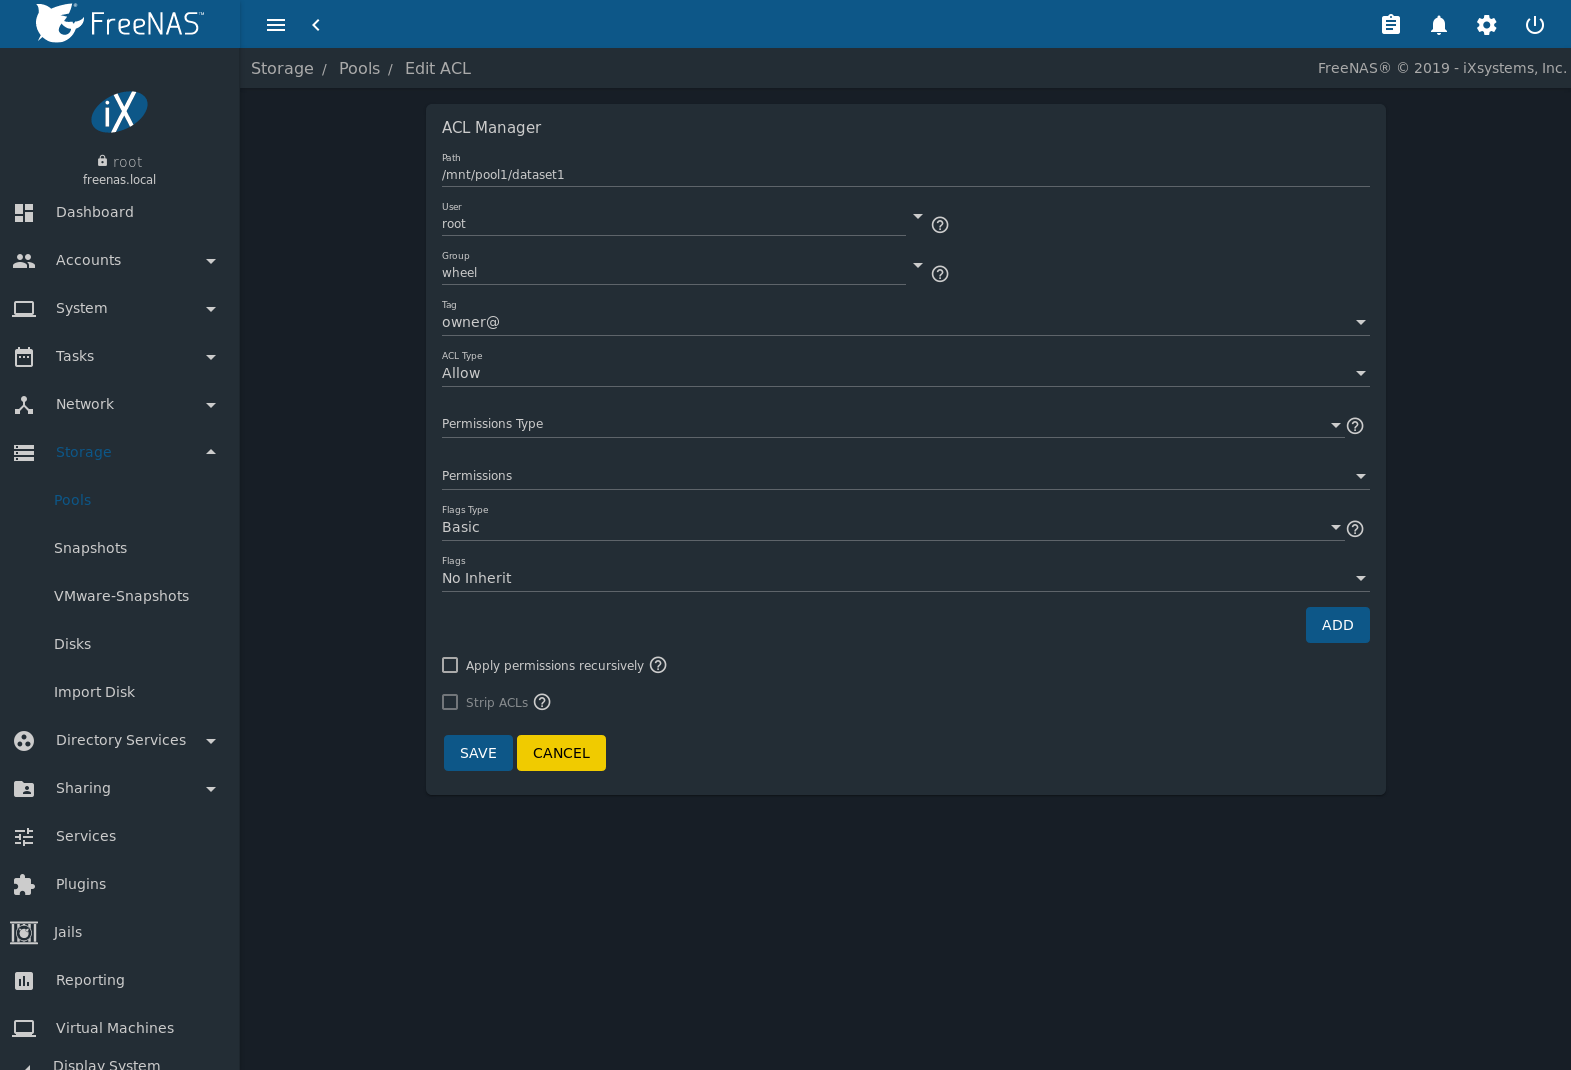
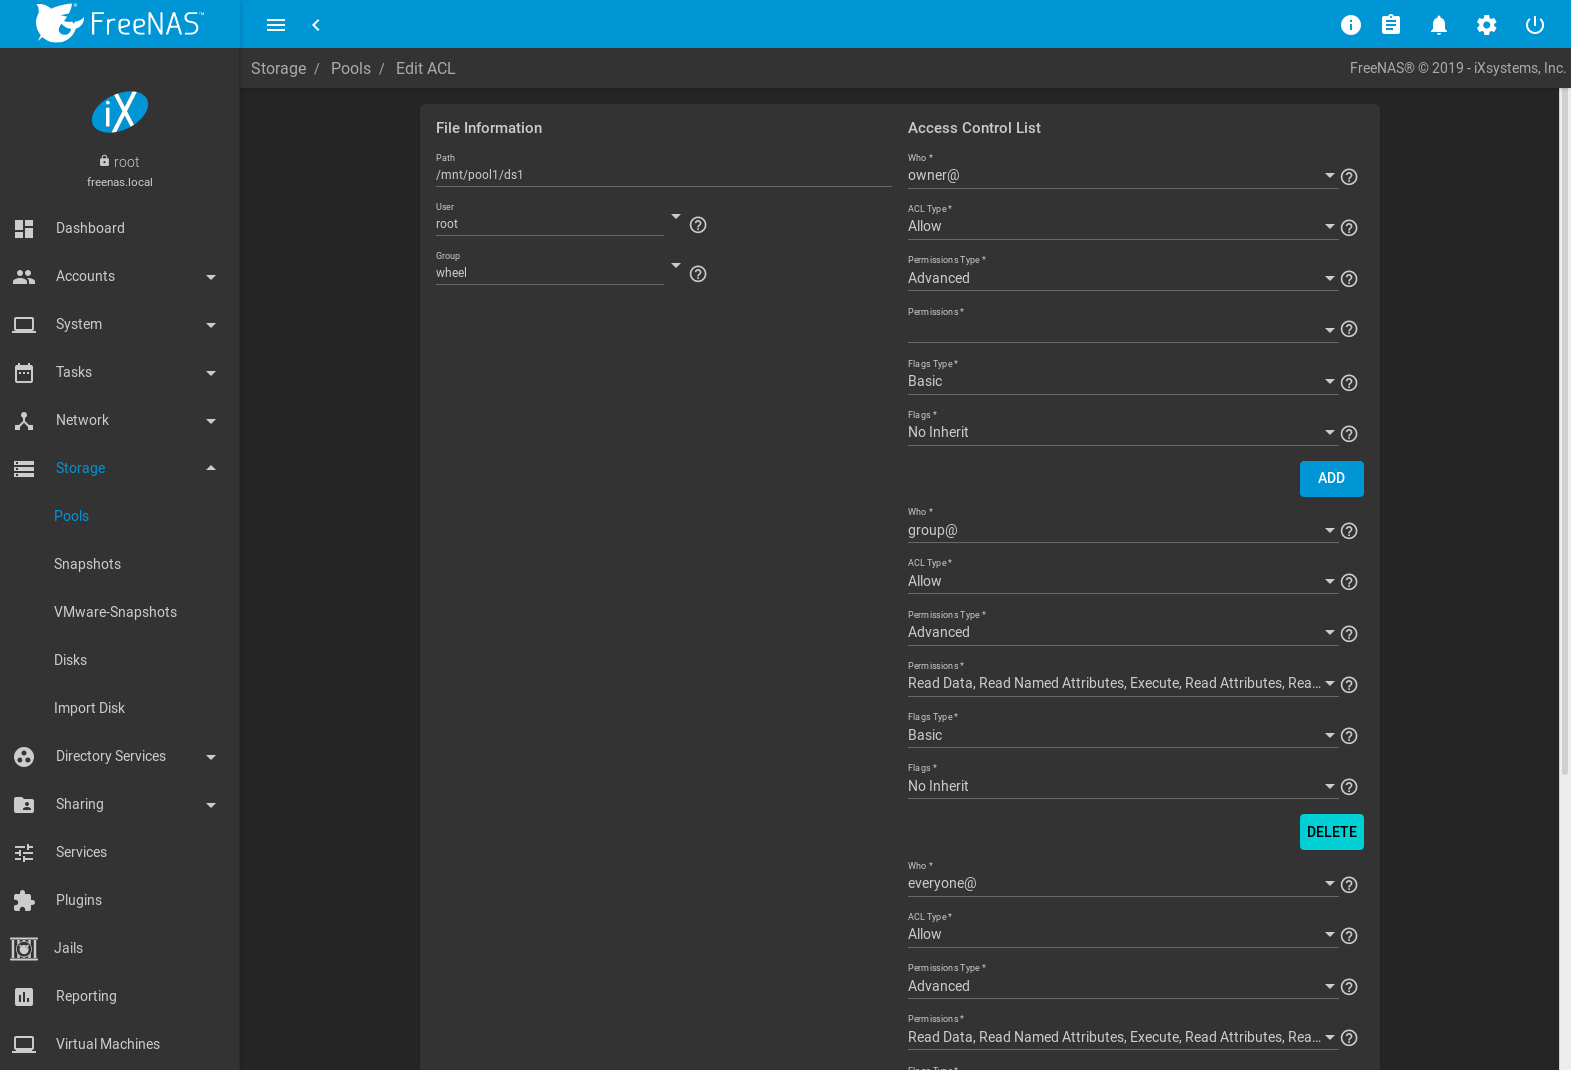
NAS-101749: Update ACL Manager section - Update text to reflect new organization and altered field - Update related image - HTML build test: no issues

diff --git a/userguide/storage.rst b/userguide/storage.rst
@@ -1359,7 +1359,13 @@ Find the desired dataset, click |ui-options|, and select
    ACL Manager
 
 
-.. tabularcolumns:: |>{\RaggedRight}p{\dimexpr 0.25\linewidth-2\tabcolsep}
+The ACL Manager options are split into the :guilabel:`File Information`,
+:guilabel:`Access Control List`, and :guilabel:`Advanced` sections.
+:numref:` Table %s <storage_acl_tab>` sorts these options by their
+section.
+
+.. tabularcolumns:: |>{\RaggedRight}p{\dimexpr 0.12\linewidth-2\tabcolsep}
+                    |>{\RaggedRight}p{\dimexpr 0.12\linewidth-2\tabcolsep}
                     |>{\RaggedRight}p{\dimexpr 0.12\linewidth-2\tabcolsep}
                     |>{\RaggedRight}p{\dimexpr 0.63\linewidth-2\tabcolsep}|
 
@@ -1369,60 +1375,60 @@ Find the desired dataset, click |ui-options|, and select
 .. table:: ACL Options
    :class: longtable
 
-   +-------------------+------------------+------------------------------------------------------------------------------------------------------------+
-   | Setting           | Value            | Description                                                                                                |
-   |                   |                  |                                                                                                            |
-   +===================+==================+============================================================================================================+
-   | Path              | string           | Location of the dataset that is being modified. Read-only.                                                 |
-   +-------------------+------------------+------------------------------------------------------------------------------------------------------------+
-   | User              | drop-down menu   | User who controls the dataset. This user always has permissions to read or write the ACL and read          |
-   |                   |                  | or write attributes. Users created manually or imported from a                                             |
-   |                   |                  | :ref:`directory service <Directory Services>` appear in the drop-down menu.                                |
-   +-------------------+------------------+------------------------------------------------------------------------------------------------------------+
-   | Group             | drop-down menu   | The group which controls the dataset. This group has all permissions that are granted to the *@group*      |
-   |                   |                  | :guilabel:`Tag`. Groups created manually or imported from a                                                |
-   |                   |                  | :ref:`directory service <Directory Services>` appear in the drop-down menu.                                |
-   +-------------------+------------------+------------------------------------------------------------------------------------------------------------+
-   | Tag               | drop-down menu   | Access Control Entry (ACE) user or group. Select a specific *User* or *Group* for this entry,              |
-   |                   |                  | *owner@* to apply this entry to the selected :guilabel:`User`, *group@* to apply this entry to the         |
-   |                   |                  | selected :guilabel:`Group`, or *everyone@* to apply this entry to all users and groups. See                |
-   |                   |                  | `setfacl(1) NFSv4 ACL ENTRIES <https://www.freebsd.org/cgi/man.cgi?query=setfacl>`__.                      |
-   +-------------------+------------------+------------------------------------------------------------------------------------------------------------+
-   | User              | drop-down menu   | User account to which this ACL entry applies. Only visible when *User* is the chosen :guilabel:`Tag`.      |
-   +-------------------+------------------+------------------------------------------------------------------------------------------------------------+
-   | Group             | drop-down menu   | Group to which this ACL entry applies. Only visible when *Group* is the chosen :guilabel:`Tag`.            |
-   +-------------------+------------------+------------------------------------------------------------------------------------------------------------+
-   | ACL Type          | drop-down menu   | How the :guilabel:`Permissions` are applied to the chosen :guilabel:`Tag`. Choose *Allow* to grant the     |
-   |                   |                  | specified permissions and *Deny* to restrict the specified permissions.                                    |
-   +-------------------+------------------+------------------------------------------------------------------------------------------------------------+
-   | Permissions Type  | drop-down menu   | Choose the type of permissions. *Basic* shows general permissions. *Advanced* shows each                   |
-   |                   |                  | specific type of permission for finer control.                                                             |
-   +-------------------+------------------+------------------------------------------------------------------------------------------------------------+
-   | Permissions       | drop-down menu   | Select permissions to apply to the chosen :guilabel:`Tag`. Choices change depending on the                 |
-   |                   |                  | :guilabel:`Permissions Type`. See the :ref:`permissions list <ACE Permissions>` for descriptions           |
-   |                   |                  | of each permission.                                                                                        |
-   +-------------------+------------------+------------------------------------------------------------------------------------------------------------+
-   | Flags Type        | drop-down menu   | Select the set of ACE inheritance :guilabel:`Flags` to display. *Basic* shows unspecific inheritance       |
-   |                   |                  | options. *Advanced* shows specific inheritance settings for finer control.                                 |
-   +-------------------+------------------+------------------------------------------------------------------------------------------------------------+
-   | Flags             | drop-down menu   | How this ACE is applied to newly created directories and files within the dataset. *Basic* flags enable or |
-   |                   |                  | disable ACE inheritance. *Advanced* flags allow further control of how the ACE is applied to files and     |
-   |                   |                  | directories in the dataset. See the :ref:`inheritance flags list <ACE Inheritance Flags>` for              |
-   |                   |                  | descriptions of *Advanced* inheritance flags.                                                              |
-   +-------------------+------------------+------------------------------------------------------------------------------------------------------------+
-   | Apply permissions | checkbox         | Apply permissions recursively to all directories and files in the current dataset.                         |
-   | recursively       |                  |                                                                                                            |
-   +-------------------+------------------+------------------------------------------------------------------------------------------------------------+
-   | Apply permissions | checkbox         | Apply permissions recursively to all child datasets of the current dataset. Only visible when              |
-   | to child datasets |                  | :guilabel:`Apply permissions recursively` is set.                                                          |
-   +-------------------+------------------+------------------------------------------------------------------------------------------------------------+
-   | Strip ACLs        | checkbox         | Set to remove all ACLs from the current dataset. ACLs are also recursively stripped from                   |
-   |                   |                  | directories and child datasets when :guilabel:`Apply permissions recursively` and                          |
-   |                   |                  | :guilabel:`Apply permissions to child datasets` are set.                                                   |
-   +-------------------+------------------+------------------------------------------------------------------------------------------------------------+
+   +-------------------+---------------------+------------------+------------------------------------------------------------------------------------------------------------+
+   | Setting           | Section             | Value            | Description                                                                                                |
+   |                   |                     |                  |                                                                                                            |
+   +===================+=====================+==================+============================================================================================================+
+   | Path              | File Information    | string           | Location of the dataset that is being modified. Read-only.                                                 |
+   +-------------------+---------------------+------------------+------------------------------------------------------------------------------------------------------------+
+   | User              | File Information    | drop-down menu   | User who controls the dataset. This user always has permissions to read or write the ACL and read          |
+   |                   |                     |                  | or write attributes. Users created manually or imported from a                                             |
+   |                   |                     |                  | :ref:`directory service <Directory Services>` appear in the drop-down menu.                                |
+   +-------------------+---------------------+------------------+------------------------------------------------------------------------------------------------------------+
+   | Group             | File Information    | drop-down menu   | The group which controls the dataset. This group has all permissions that are granted to the *@group*      |
+   |                   |                     |                  | :guilabel:`Tag`. Groups created manually or imported from a                                                |
+   |                   |                     |                  | :ref:`directory service <Directory Services>` appear in the drop-down menu.                                |
+   +-------------------+---------------------+------------------+------------------------------------------------------------------------------------------------------------+
+   | Who               | Access Control List | drop-down menu   | Access Control Entry (ACE) user or group. Select a specific *User* or *Group* for this entry,              |
+   |                   |                     |                  | *owner@* to apply this entry to the selected :guilabel:`User`, *group@* to apply this entry to the         |
+   |                   |                     |                  | selected :guilabel:`Group`, or *everyone@* to apply this entry to all users and groups. See                |
+   |                   |                     |                  | `setfacl(1) NFSv4 ACL ENTRIES <https://www.freebsd.org/cgi/man.cgi?query=setfacl>`__.                      |
+   +-------------------+---------------------+------------------+------------------------------------------------------------------------------------------------------------+
+   | User              | Access Control List | drop-down menu   | User account to which this ACL entry applies. Only visible when *User* is the chosen :guilabel:`Tag`.      |
+   +-------------------+---------------------+------------------+------------------------------------------------------------------------------------------------------------+
+   | Group             | Access Control List | drop-down menu   | Group to which this ACL entry applies. Only visible when *Group* is the chosen :guilabel:`Tag`.            |
+   +-------------------+---------------------+------------------+------------------------------------------------------------------------------------------------------------+
+   | ACL Type          | Access Control List | drop-down menu   | How the :guilabel:`Permissions` are applied to the chosen :guilabel:`Who`. Choose *Allow* to grant the     |
+   |                   |                     |                  | specified permissions and *Deny* to restrict the specified permissions.                                    |
+   +-------------------+---------------------+------------------+------------------------------------------------------------------------------------------------------------+
+   | Permissions Type  | Access Control List | drop-down menu   | Choose the type of permissions. *Basic* shows general permissions. *Advanced* shows each                   |
+   |                   |                     |                  | specific type of permission for finer control.                                                             |
+   +-------------------+---------------------+------------------+------------------------------------------------------------------------------------------------------------+
+   | Permissions       | Access Control List | drop-down menu   | Select permissions to apply to the chosen :guilabel:`Tag`. Choices change depending on the                 |
+   |                   |                     |                  | :guilabel:`Permissions Type`. See the :ref:`permissions list <ACE Permissions>` for descriptions           |
+   |                   |                     |                  | of each permission.                                                                                        |
+   +-------------------+---------------------+------------------+------------------------------------------------------------------------------------------------------------+
+   | Flags Type        | Access Control List | drop-down menu   | Select the set of ACE inheritance :guilabel:`Flags` to display. *Basic* shows unspecific inheritance       |
+   |                   |                     |                  | options. *Advanced* shows specific inheritance settings for finer control.                                 |
+   +-------------------+---------------------+------------------+------------------------------------------------------------------------------------------------------------+
+   | Flags             | Access Control List | drop-down menu   | How this ACE is applied to newly created directories and files within the dataset. *Basic* flags enable or |
+   |                   |                     |                  | disable ACE inheritance. *Advanced* flags allow further control of how the ACE is applied to files and     |
+   |                   |                     |                  | directories in the dataset. See the :ref:`inheritance flags list <ACE Inheritance Flags>` for              |
+   |                   |                     |                  | descriptions of *Advanced* inheritance flags.                                                              |
+   +-------------------+---------------------+------------------+------------------------------------------------------------------------------------------------------------+
+   | Apply permissions | Advanced            | checkbox         | Apply permissions recursively to all directories and files in the current dataset.                         |
+   | recursively       |                     |                  |                                                                                                            |
+   +-------------------+---------------------+------------------+------------------------------------------------------------------------------------------------------------+
+   | Apply permissions | Advanced            | checkbox         | Apply permissions recursively to all child datasets of the current dataset. Only visible when              |
+   | to child datasets |                     |                  | :guilabel:`Apply permissions recursively` is set.                                                          |
+   +-------------------+---------------------+------------------+------------------------------------------------------------------------------------------------------------+
+   | Strip ACLs        | Advanced            | checkbox         | Set to remove all ACLs from the current dataset. ACLs are also recursively stripped from                   |
+   |                   |                     |                  | directories and child datasets when :guilabel:`Apply permissions recursively` and                          |
+   |                   |                     |                  | :guilabel:`Apply permissions to child datasets` are set.                                                   |
+   +-------------------+---------------------+------------------+------------------------------------------------------------------------------------------------------------+
 
 
-Additional ACEs are created by clicking :guilabel:`Add` and configuring
+Additional ACEs are created by clicking :guilabel:`ADD` and configuring
 the added fields.
 
 See `setfacl(1) <https://www.freebsd.org/cgi/man.cgi?query=setfacl>`__,
